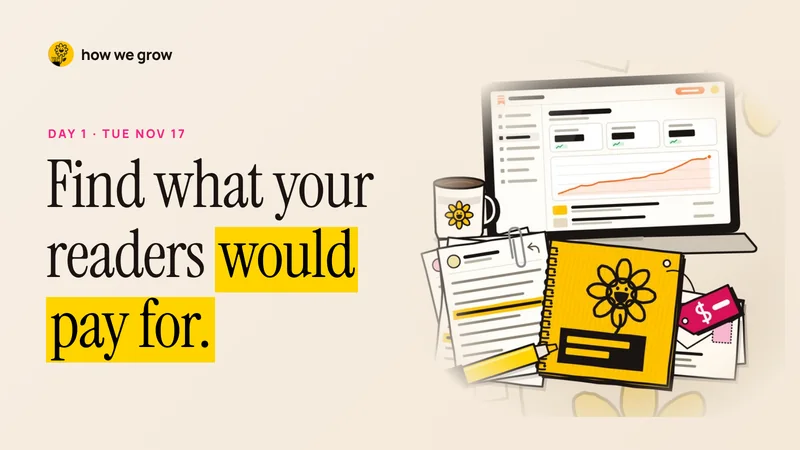
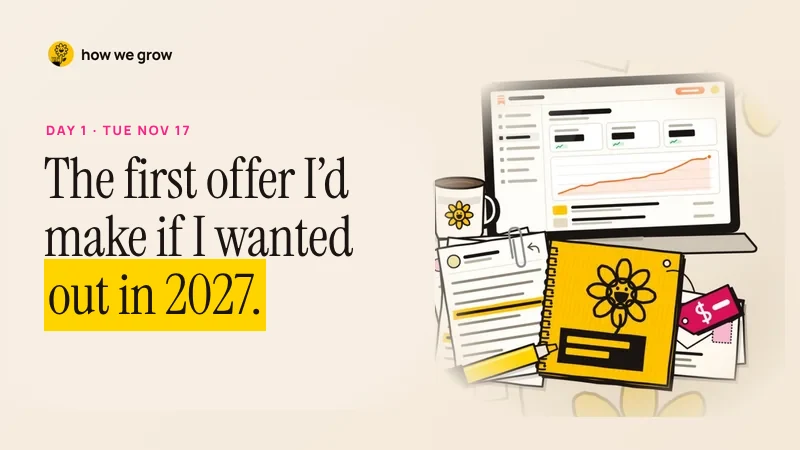
Day 1 slide picture and the VIP recording picture carry the new Day 1 title
Claude-Session: https://claude.ai/code/session_01MxqKXt8jC4twN2icxWpMeU

diff --git a/vip/index.html b/vip/index.html
@@ -926,7 +926,7 @@ footer .links a{text-decoration:underline;text-underline-offset:3px}
         <div class="art" aria-hidden="true"><div class="stage">
           <svg class="fl" style="left:440px;top:330px;width:230px;height:230px"><use href="#sfo"/></svg>
           <div class="player">
-            <div class="scr2"><img src="../img/ana-paris.webp" alt="" width="1000" height="671" loading="lazy"><span class="pp"><svg width="20" height="20" viewBox="0 0 26 26"><path d="M8.6 5.6v14.8c0 .9 1 1.4 1.7 1l11.6-7.4c.7-.4.7-1.4 0-1.9L10.3 4.6c-.7-.5-1.7 0-1.7 1z" fill="#fff"/></svg></span><span class="cap3"><small>RECORDING · DAY 1</small>Find what your readers would pay for.</span><span class="prog"><i></i></span></div>
+            <div class="scr2"><img src="../img/ana-paris.webp" alt="" width="1000" height="671" loading="lazy"><span class="pp"><svg width="20" height="20" viewBox="0 0 26 26"><path d="M8.6 5.6v14.8c0 .9 1 1.4 1.7 1l11.6-7.4c.7-.4.7-1.4 0-1.9L10.3 4.6c-.7-.5-1.7 0-1.7 1z" fill="#fff"/></svg></span><span class="cap3"><small>RECORDING · DAY 1</small>Choose your first offer and who it’s for.</span><span class="prog"><i></i></span></div>
             <ol>
               <li class="on"><span class="dp">DAY 1</span>Choose your first offer and who it’s for.<span class="sv">SAVED</span></li>
               <li><span class="dp">DAY 2</span>Put a price on it you can stand behind.<span class="sv">SAVED</span></li>

diff --git a/v2/index.html b/v2/index.html
@@ -1336,7 +1336,7 @@ html.anim-on [data-r]:not(.in){opacity:0;transform:translateY(22px)}
       </div>
 
       <div class="book">
-        <div class="mini"><img src="../img/day1-slide.webp" alt="Day 1: Find what your readers would pay for" width="800" height="450"></div>
+        <div class="mini"><img src="../img/day1-slide.webp?v=2" alt="Day 1: The first offer I’d make if I wanted out in 2027" width="800" height="450"></div>
         <div>
           <p class="k">Free <b>/</b> live on Zoom</p>
           <h3>Join The Exit Plan, free.</h3>

diff --git a/index.html b/index.html
@@ -1335,7 +1335,7 @@ html.anim-on [data-r]:not(.in){opacity:0;transform:translateY(22px)}
       </div>
 
       <div class="book">
-        <div class="mini"><img src="img/day1-slide.webp" alt="Day 1: Find what your readers would pay for" width="800" height="450"></div>
+        <div class="mini"><img src="img/day1-slide.webp?v=2" alt="Day 1: The first offer I’d make if I wanted out in 2027" width="800" height="450"></div>
         <div>
           <p class="k">Free <b>/</b> live on Zoom</p>
           <h3>Join The Exit Plan, free.</h3>

diff --git a/tools/v1-source.html b/tools/v1-source.html
@@ -880,7 +880,7 @@ html.anim-on [data-r]:not(.in){opacity:0;transform:translateY(22px)}
       </div>
 
       <div class="book">
-        <div class="mini"><img src="img/day1-slide.webp" alt="Day 1: Find what your readers would pay for" width="800" height="450"></div>
+        <div class="mini"><img src="img/day1-slide.webp?v=2" alt="Day 1: The first offer I’d make if I wanted out in 2027" width="800" height="450"></div>
         <div>
           <p class="k">Free <b>/</b> live on Zoom</p>
           <h3>Join The Exit Plan, free.</h3>
